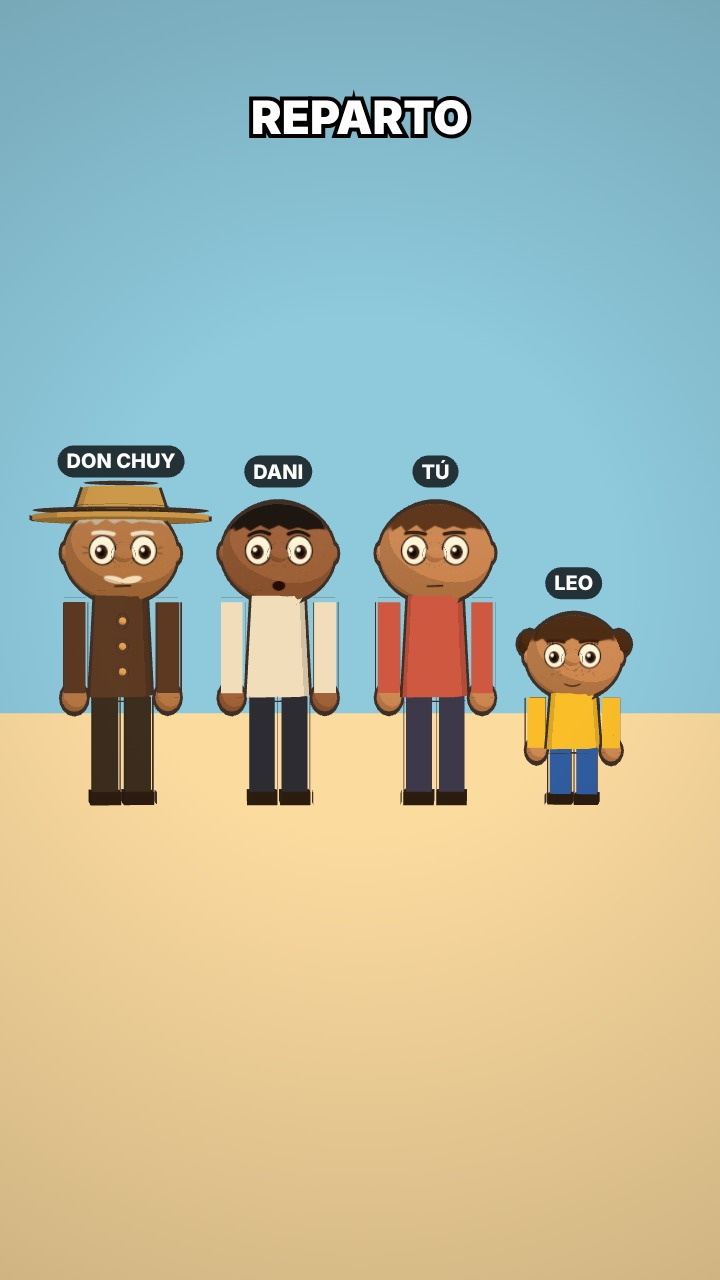
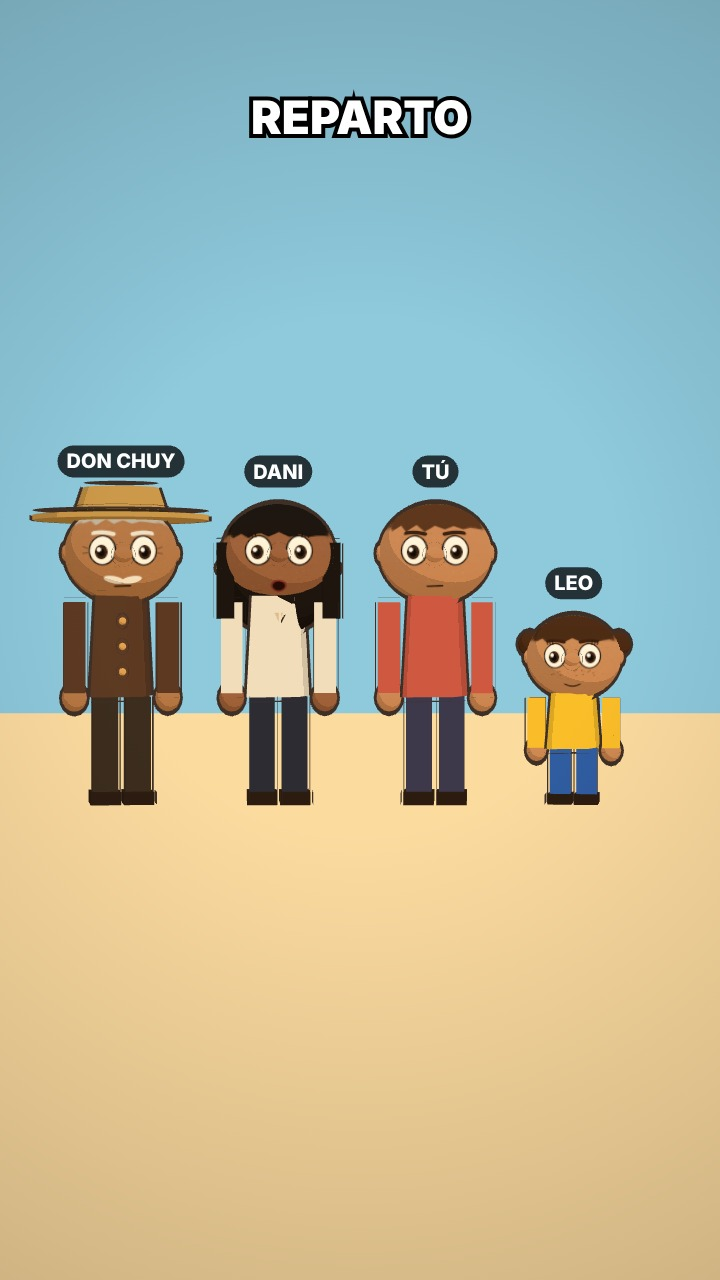
Dani como mujer (pelo largo, aretes, collar)
Claude-Session: https://claude.ai/code/session_01464Uwv7piUvh5Q9hg4RwxF

Changed region(s): [[0.275, 0.4062, 0.4889, 0.5]]

diff --git a/el-mar-se-fue/render/chars.js b/el-mar-se-fue/render/chars.js
@@ -45,6 +45,7 @@ function faceTex(o) {
   if (o.mouth === 'open') { g.fillStyle = '#2a1008'; g.ellipse(cx, 378, 26, 22, 0, 0, Math.PI * 2); g.fill(); }
   else if (o.mouth === 'smile') { g.moveTo(cx - 34, 370); g.quadraticCurveTo(cx, 392, cx + 34, 370); g.stroke(); }
   else { g.moveTo(cx - 30, 378); g.lineTo(cx + 30, 376); g.stroke(); }
+  if (o.lips && o.mouth === 'open') { g.strokeStyle = o.lips; g.lineWidth = 7; g.beginPath(); g.ellipse(cx, 378, 28, 24, 0, 0, Math.PI * 2); g.stroke(); }
   if (o.mustache) { g.fillStyle = o.mustache; g.beginPath(); g.ellipse(cx - 30, 352, 36, 14, 0.2, 0, Math.PI * 2); g.ellipse(cx + 30, 352, 36, 14, -0.2, 0, Math.PI * 2); g.fill(); }
   if (o.freckles) { g.fillStyle = 'rgba(110,60,30,0.7)'; for (let i = 0; i < 14; i++) g.fillRect(cx + (rnd() - 0.5) * 170, 300 + rnd() * 30, 5, 5); }
   const t = new THREE.CanvasTexture(c); t.colorSpace = THREE.SRGBColorSpace; return t;
@@ -81,6 +82,14 @@ function person(o) {
     const crown = new THREE.Mesh(new THREE.CylinderGeometry(hr * 0.75, hr * 0.95, hr * 0.6, 20), M(0xc49a52)); crown.position.y = brim.position.y + hr * 0.3; g.add(crown);
     const band = new THREE.Mesh(new THREE.CylinderGeometry(hr * 0.96, hr * 0.96, hr * 0.12, 20), M(0x3a2a1a)); band.position.y = brim.position.y + hr * 0.08; g.add(band);
   }
+  if (o.longHair) {
+    const hm = M(o.hairC);
+    const back = new THREE.Mesh(new THREE.SphereGeometry(hr * 1.02, 24, 16), hm); back.scale.set(1.15, 1.25, 0.7); back.position.set(0, head.position.y - hr * 0.35, -hr * 0.25); g.add(back);
+    for (const sx of [-1, 1]) { const lock = new THREE.Mesh(new THREE.BoxGeometry(hr * 0.35, hr * 1.5, hr * 0.5), hm); lock.position.set(sx * hr * 1.05, head.position.y - hr * 0.55, hr * 0.05); g.add(lock); }
+  }
+  if (o.earrings) for (const sx of [-1, 1]) { const e = new THREE.Mesh(new THREE.TorusGeometry(hr * 0.09, hr * 0.025, 6, 12), M(0xe8c060)); e.position.set(sx * hr * 1.12, head.position.y - hr * 0.3, hr * 0.1); g.add(e); }
+  if (o.necklace) { const n = new THREE.Mesh(new THREE.TorusGeometry(0.17 * s, 0.015 * s, 6, 20, Math.PI), M(0x7a5a3a)); n.rotation.set(Math.PI / 2 + 0.35, 0, Math.PI); n.position.set(0, legH + torH - 0.03 * s, 0.05 * s); g.add(n);
+    const sh = new THREE.Mesh(new THREE.ConeGeometry(0.04 * s, 0.07 * s, 6), M(0xf3e6cf)); sh.rotation.x = Math.PI; sh.position.set(0, legH + torH - 0.17 * s, 0.2 * s); g.add(sh); }
   if (o.pigtails) for (const sx of [-1, 1]) { const p = new THREE.Mesh(new THREE.SphereGeometry(hr * 0.28, 10, 8), M(o.hairC)); p.position.set(sx * hr * 1.05, head.position.y + hr * 0.3, -hr * 0.2); g.add(p); }
   g.arms = arms; g.top = head.position.y + hr * (o.hat ? 1.2 : 1);
   return g;
@@ -88,7 +97,7 @@ function person(o) {
 
 const CAST = {
   chuy: { name: 'DON CHUY', skin: '#b07a4e', hair: '#b9b4aa', brow: '#e8e2d6', shirt: 0x5a3b28, pants: 0x3a2e24, mustache: '#efe7da', old: true, hat: true, hairLine: 150, buttons: true },
-  dani: { name: 'DANI', skin: '#9a6442', hair: '#1c1612', brow: '#1c1612', shirt: 0xe9e2d2, pants: 0x2b2d3a, hairLine: 175, mouth: 'open', worried: true },
+  dani: { name: 'DANI', skin: '#9a6442', hair: '#1c1612', hairC: 0x1c1612, longHair: true, lashes: true, earrings: true, necklace: true, lips: '#8a3a32', brow: '#1c1612', shirt: 0xe9e2d2, pants: 0x2b2d3a, hairLine: 200, mouth: 'open', worried: true },
   leo: { name: 'LEO', kid: true, s: 0.8, skin: '#c88d5f', hair: '#4a2c17', hairC: 0x4a2c17, pigtails: true, lashes: true, brow: '#3a2010', shirt: 0xf2c230, pants: 0x2e5fb8, hairLine: 190, freckles: true, mouth: 'smile' },
   leoMal: { name: 'LEO', kid: true, s: 0.8, skin: '#a9805e', hair: '#3a2414', brow: '#2a1810', shirt: 0xb8962a, pants: 0x24467e, hairLine: 170, drips: true },
   tu: { name: 'TÚ', skin: '#c68a5e', hair: '#5a3720', brow: '#3a2414', shirt: 0xc85a4a, pants: 0x3b3b55, hairLine: 175 },

diff --git a/el-mar-se-fue/render/rchars.js b/el-mar-se-fue/render/rchars.js
@@ -7,5 +7,5 @@ fs.mkdirSync('chars_out', { recursive: true });
 const save = (n, u) => fs.writeFileSync('chars_out/' + n, Buffer.from(u.split(',')[1], 'base64'));
 save('reparto.jpg', await pg.evaluate(() => window.renderCast()));
 save('leo.jpg', await pg.evaluate(() => window.renderCloseup('leo', '¡Mira! ¡Encontré una concha gigante!', 'LEO')));
-save('chuy.jpg', await pg.evaluate(() => window.renderCloseup('chuy', '¡TSUNAMI! ¡Corran a la capilla!', 'DON CHUY')));
+save('chuy.jpg', await pg.evaluate(() => window.renderCloseup('chuy', '¡TSUNAMI! ¡Corran a la capilla!', 'DON CHUY'))); save('dani.jpg', await pg.evaluate(() => window.renderCloseup('dani', '¡No vas a llegar! ¡Vámonos!', 'DANI')));
 await br.close(); srv.close(); })();

diff --git a/el-mar-se-fue/02-personajes.md b/el-mar-se-fue/02-personajes.md
@@ -21,10 +21,10 @@ front view, side view, back view, three expressions: happy, confused, scared,
 white background, [BLOQUE DE ESTILO]
 ```
 
-## DANI — tu pareja
-- 25 años, pelo negro corto, camisa de lino blanca abierta, collar de concha.
+## DANI — tu pareja (mujer)
+- Mujer de 25 años, pelo negro largo, camisa de lino blanca, collar de concha, aretes dorados.
 ```
-Character reference sheet of a 25-year-old adult named Dani, short black hair,
+Character reference sheet of a 25-year-old woman named Dani, long straight black hair, gold hoop earrings,
 warm brown skin, white open linen shirt over a dark tank top, shell necklace,
 front view, side view, back view, three expressions: relaxed smile, worried, screaming in panic,
 white background, [BLOQUE DE ESTILO]
